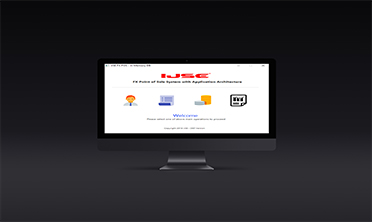
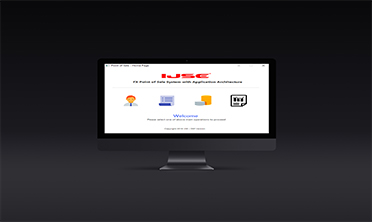
new

diff --git a/assets/js/wow.min.js b/assets/js/wow.min.js
@@ -1,2 +1,1 @@
-/*! WOW - v1.1.2 - 2015-08-19
-* Copyright (c) 2015 Matthieu Aussaguel; Licensed MIT */(function(){var a,b,c,d,e,f=function(a,b){return function(){return a.apply(b,arguments)}},g=[].indexOf||function(a){for(var b=0,c=this.length;c>b;b++)if(b in this&&this[b]===a)return b;return-1};b=function(){function a(){}return a.prototype.extend=function(a,b){var c,d;for(c in b)d=b[c],null==a[c]&&(a[c]=d);return a},a.prototype.isMobile=function(a){return/Android|webOS|iPhone|iPad|iPod|BlackBerry|IEMobile|Opera Mini/i.test(a)},a.prototype.createEvent=function(a,b,c,d){var e;return null==b&&(b=!1),null==c&&(c=!1),null==d&&(d=null),null!=document.createEvent?(e=document.createEvent("CustomEvent"),e.initCustomEvent(a,b,c,d)):null!=document.createEventObject?(e=document.createEventObject(),e.eventType=a):e.eventName=a,e},a.prototype.emitEvent=function(a,b){return null!=a.dispatchEvent?a.dispatchEvent(b):b in(null!=a)?a[b]():"on"+b in(null!=a)?a["on"+b]():void 0},a.prototype.addEvent=function(a,b,c){return null!=a.addEventListener?a.addEventListener(b,c,!1):null!=a.attachEvent?a.attachEvent("on"+b,c):a[b]=c},a.prototype.removeEvent=function(a,b,c){return null!=a.removeEventListener?a.removeEventListener(b,c,!1):null!=a.detachEvent?a.detachEvent("on"+b,c):delete a[b]},a.prototype.innerHeight=function(){return"innerHeight"in window?window.innerHeight:document.documentElement.clientHeight},a}(),c=this.WeakMap||this.MozWeakMap||(c=function(){function a(){this.keys=[],this.values=[]}return a.prototype.get=function(a){var b,c,d,e,f;for(f=this.keys,b=d=0,e=f.length;e>d;b=++d)if(c=f[b],c===a)return this.values[b]},a.prototype.set=function(a,b){var c,d,e,f,g;for(g=this.keys,c=e=0,f=g.length;f>e;c=++e)if(d=g[c],d===a)return void(this.values[c]=b);return this.keys.push(a),this.values.push(b)},a}()),a=this.MutationObserver||this.WebkitMutationObserver||this.MozMutationObserver||(a=function(){function a(){"undefined"!=typeof console&&null!==console&&console.warn("MutationObserver is not supported by your browser."),"undefined"!=typeof console&&null!==console&&console.warn("WOW.js cannot detect dom mutations, please call .sync() after loading new content.")}return a.notSupported=!0,a.prototype.observe=function(){},a}()),d=this.getComputedStyle||function(a){return this.getPropertyValue=function(b){var c;return"float"===b&&(b="styleFloat"),e.test(b)&&b.replace(e,function(a,b){return b.toUpperCase()}),(null!=(c=a.currentStyle)?c[b]:void 0)||null},this},e=/(\-([a-z]){1})/g,this.WOW=function(){function e(a){null==a&&(a={}),this.scrollCallback=f(this.scrollCallback,this),this.scrollHandler=f(this.scrollHandler,this),this.resetAnimation=f(this.resetAnimation,this),this.start=f(this.start,this),this.scrolled=!0,this.config=this.util().extend(a,this.defaults),null!=a.scrollContainer&&(this.config.scrollContainer=document.querySelector(a.scrollContainer)),this.animationNameCache=new c,this.wowEvent=this.util().createEvent(this.config.boxClass)}return e.prototype.defaults={boxClass:"wow",animateClass:"animated",offset:0,mobile:!0,live:!0,callback:null,scrollContainer:null},e.prototype.init=function(){var a;return this.element=window.document.documentElement,"interactive"===(a=document.readyState)||"complete"===a?this.start():this.util().addEvent(document,"DOMContentLoaded",this.start),this.finished=[]},e.prototype.start=function(){var b,c,d,e;if(this.stopped=!1,this.boxes=function(){var a,c,d,e;for(d=this.element.querySelectorAll("."+this.config.boxClass),e=[],a=0,c=d.length;c>a;a++)b=d[a],e.push(b);return e}.call(this),this.all=function(){var a,c,d,e;for(d=this.boxes,e=[],a=0,c=d.length;c>a;a++)b=d[a],e.push(b);return e}.call(this),this.boxes.length)if(this.disabled())this.resetStyle();else for(e=this.boxes,c=0,d=e.length;d>c;c++)b=e[c],this.applyStyle(b,!0);return this.disabled()||(this.util().addEvent(this.config.scrollContainer||window,"scroll",this.scrollHandler),this.util().addEvent(window,"resize",this.scrollHandler),this.interval=setInterval(this.scrollCallback,50)),this.config.live?new a(function(a){return function(b){var c,d,e,f,g;for(g=[],c=0,d=b.length;d>c;c++)f=b[c],g.push(function(){var a,b,c,d;for(c=f.addedNodes||[],d=[],a=0,b=c.length;b>a;a++)e=c[a],d.push(this.doSync(e));return d}.call(a));return g}}(this)).observe(document.body,{childList:!0,subtree:!0}):void 0},e.prototype.stop=function(){return this.stopped=!0,this.util().removeEvent(this.config.scrollContainer||window,"scroll",this.scrollHandler),this.util().removeEvent(window,"resize",this.scrollHandler),null!=this.interval?clearInterval(this.interval):void 0},e.prototype.sync=function(){return a.notSupported?this.doSync(this.element):void 0},e.prototype.doSync=function(a){var b,c,d,e,f;if(null==a&&(a=this.element),1===a.nodeType){for(a=a.parentNode||a,e=a.querySelectorAll("."+this.config.boxClass),f=[],c=0,d=e.length;d>c;c++)b=e[c],g.call(this.all,b)<0?(this.boxes.push(b),this.all.push(b),this.stopped||this.disabled()?this.resetStyle():this.applyStyle(b,!0),f.push(this.scrolled=!0)):f.push(void 0);return f}},e.prototype.show=function(a){return this.applyStyle(a),a.className=a.className+" "+this.config.animateClass,null!=this.config.callback&&this.config.callback(a),this.util().emitEvent(a,this.wowEvent),this.util().addEvent(a,"animationend",this.resetAnimation),this.util().addEvent(a,"oanimationend",this.resetAnimation),this.util().addEvent(a,"webkitAnimationEnd",this.resetAnimation),this.util().addEvent(a,"MSAnimationEnd",this.resetAnimation),a},e.prototype.applyStyle=function(a,b){var c,d,e;return d=a.getAttribute("data-wow-duration"),c=a.getAttribute("data-wow-delay"),e=a.getAttribute("data-wow-iteration"),this.animate(function(f){return function(){return f.customStyle(a,b,d,c,e)}}(this))},e.prototype.animate=function(){return"requestAnimationFrame"in window?function(a){return window.requestAnimationFrame(a)}:function(a){return a()}}(),e.prototype.resetStyle=function(){var a,b,c,d,e;for(d=this.boxes,e=[],b=0,c=d.length;c>b;b++)a=d[b],e.push(a.style.visibility="visible");return e},e.prototype.resetAnimation=function(a){var b;return a.type.toLowerCase().indexOf("animationend")>=0?(b=a.target||a.srcElement,b.className=b.className.replace(this.config.animateClass,"").trim()):void 0},e.prototype.customStyle=function(a,b,c,d,e){return b&&this.cacheAnimationName(a),a.style.visibility=b?"hidden":"visible",c&&this.vendorSet(a.style,{animationDuration:c}),d&&this.vendorSet(a.style,{animationDelay:d}),e&&this.vendorSet(a.style,{animationIterationCount:e}),this.vendorSet(a.style,{animationName:b?"none":this.cachedAnimationName(a)}),a},e.prototype.vendors=["moz","webkit"],e.prototype.vendorSet=function(a,b){var c,d,e,f;d=[];for(c in b)e=b[c],a[""+c]=e,d.push(function(){var b,d,g,h;for(g=this.vendors,h=[],b=0,d=g.length;d>b;b++)f=g[b],h.push(a[""+f+c.charAt(0).toUpperCase()+c.substr(1)]=e);return h}.call(this));return d},e.prototype.vendorCSS=function(a,b){var c,e,f,g,h,i;for(h=d(a),g=h.getPropertyCSSValue(b),f=this.vendors,c=0,e=f.length;e>c;c++)i=f[c],g=g||h.getPropertyCSSValue("-"+i+"-"+b);return g},e.prototype.animationName=function(a){var b;try{b=this.vendorCSS(a,"animation-name").cssText}catch(c){b=d(a).getPropertyValue("animation-name")}return"none"===b?"":b},e.prototype.cacheAnimationName=function(a){return this.animationNameCache.set(a,this.animationName(a))},e.prototype.cachedAnimationName=function(a){return this.animationNameCache.get(a)},e.prototype.scrollHandler=function(){return this.scrolled=!0},e.prototype.scrollCallback=function(){var a;return!this.scrolled||(this.scrolled=!1,this.boxes=function(){var b,c,d,e;for(d=this.boxes,e=[],b=0,c=d.length;c>b;b++)a=d[b],a&&(this.isVisible(a)?this.show(a):e.push(a));return e}.call(this),this.boxes.length||this.config.live)?void 0:this.stop()},e.prototype.offsetTop=function(a){for(var b;void 0===a.offsetTop;)a=a.parentNode;for(b=a.offsetTop;a=a.offsetParent;)b+=a.offsetTop;return b},e.prototype.isVisible=function(a){var b,c,d,e,f;return c=a.getAttribute("data-wow-offset")||this.config.offset,f=this.config.scrollContainer&&this.config.scrollContainer.scrollTop||window.pageYOffset,e=f+Math.min(this.element.clientHeight,this.util().innerHeight())-c,d=this.offsetTop(a),b=d+a.clientHeight,e>=d&&b>=f},e.prototype.util=function(){return null!=this._util?this._util:this._util=new b},e.prototype.disabled=function(){return!this.config.mobile&&this.util().isMobile(navigator.userAgent)},e}()}).call(this);
+(function(){var a,b,c,d,e,f=function(a,b){return function(){return a.apply(b,arguments)}},g=[].indexOf||function(a){for(var b=0,c=this.length;c>b;b++)if(b in this&&this[b]===a)return b;return-1};b=function(){function a(){}return a.prototype.extend=function(a,b){var c,d;for(c in b)d=b[c],null==a[c]&&(a[c]=d);return a},a.prototype.isMobile=function(a){return/Android|webOS|iPhone|iPad|iPod|BlackBerry|IEMobile|Opera Mini/i.test(a)},a.prototype.createEvent=function(a,b,c,d){var e;return null==b&&(b=!1),null==c&&(c=!1),null==d&&(d=null),null!=document.createEvent?(e=document.createEvent("CustomEvent"),e.initCustomEvent(a,b,c,d)):null!=document.createEventObject?(e=document.createEventObject(),e.eventType=a):e.eventName=a,e},a.prototype.emitEvent=function(a,b){return null!=a.dispatchEvent?a.dispatchEvent(b):b in(null!=a)?a[b]():"on"+b in(null!=a)?a["on"+b]():void 0},a.prototype.addEvent=function(a,b,c){return null!=a.addEventListener?a.addEventListener(b,c,!1):null!=a.attachEvent?a.attachEvent("on"+b,c):a[b]=c},a.prototype.removeEvent=function(a,b,c){return null!=a.removeEventListener?a.removeEventListener(b,c,!1):null!=a.detachEvent?a.detachEvent("on"+b,c):delete a[b]},a.prototype.innerHeight=function(){return"innerHeight"in window?window.innerHeight:document.documentElement.clientHeight},a}(),c=this.WeakMap||this.MozWeakMap||(c=function(){function a(){this.keys=[],this.values=[]}return a.prototype.get=function(a){var b,c,d,e,f;for(f=this.keys,b=d=0,e=f.length;e>d;b=++d)if(c=f[b],c===a)return this.values[b]},a.prototype.set=function(a,b){var c,d,e,f,g;for(g=this.keys,c=e=0,f=g.length;f>e;c=++e)if(d=g[c],d===a)return void(this.values[c]=b);return this.keys.push(a),this.values.push(b)},a}()),a=this.MutationObserver||this.WebkitMutationObserver||this.MozMutationObserver||(a=function(){function a(){"undefined"!=typeof console&&null!==console&&console.warn("MutationObserver is not supported by your browser."),"undefined"!=typeof console&&null!==console&&console.warn("WOW.js cannot detect dom mutations, please call .sync() after loading new content.")}return a.notSupported=!0,a.prototype.observe=function(){},a}()),d=this.getComputedStyle||function(a){return this.getPropertyValue=function(b){var c;return"float"===b&&(b="styleFloat"),e.test(b)&&b.replace(e,function(a,b){return b.toUpperCase()}),(null!=(c=a.currentStyle)?c[b]:void 0)||null},this},e=/(\-([a-z]){1})/g,this.WOW=function(){function e(a){null==a&&(a={}),this.scrollCallback=f(this.scrollCallback,this),this.scrollHandler=f(this.scrollHandler,this),this.resetAnimation=f(this.resetAnimation,this),this.start=f(this.start,this),this.scrolled=!0,this.config=this.util().extend(a,this.defaults),null!=a.scrollContainer&&(this.config.scrollContainer=document.querySelector(a.scrollContainer)),this.animationNameCache=new c,this.wowEvent=this.util().createEvent(this.config.boxClass)}return e.prototype.defaults={boxClass:"wow",animateClass:"animated",offset:0,mobile:!0,live:!0,callback:null,scrollContainer:null},e.prototype.init=function(){var a;return this.element=window.document.documentElement,"interactive"===(a=document.readyState)||"complete"===a?this.start():this.util().addEvent(document,"DOMContentLoaded",this.start),this.finished=[]},e.prototype.start=function(){var b,c,d,e;if(this.stopped=!1,this.boxes=function(){var a,c,d,e;for(d=this.element.querySelectorAll("."+this.config.boxClass),e=[],a=0,c=d.length;c>a;a++)b=d[a],e.push(b);return e}.call(this),this.all=function(){var a,c,d,e;for(d=this.boxes,e=[],a=0,c=d.length;c>a;a++)b=d[a],e.push(b);return e}.call(this),this.boxes.length)if(this.disabled())this.resetStyle();else for(e=this.boxes,c=0,d=e.length;d>c;c++)b=e[c],this.applyStyle(b,!0);return this.disabled()||(this.util().addEvent(this.config.scrollContainer||window,"scroll",this.scrollHandler),this.util().addEvent(window,"resize",this.scrollHandler),this.interval=setInterval(this.scrollCallback,50)),this.config.live?new a(function(a){return function(b){var c,d,e,f,g;for(g=[],c=0,d=b.length;d>c;c++)f=b[c],g.push(function(){var a,b,c,d;for(c=f.addedNodes||[],d=[],a=0,b=c.length;b>a;a++)e=c[a],d.push(this.doSync(e));return d}.call(a));return g}}(this)).observe(document.body,{childList:!0,subtree:!0}):void 0},e.prototype.stop=function(){return this.stopped=!0,this.util().removeEvent(this.config.scrollContainer||window,"scroll",this.scrollHandler),this.util().removeEvent(window,"resize",this.scrollHandler),null!=this.interval?clearInterval(this.interval):void 0},e.prototype.sync=function(){return a.notSupported?this.doSync(this.element):void 0},e.prototype.doSync=function(a){var b,c,d,e,f;if(null==a&&(a=this.element),1===a.nodeType){for(a=a.parentNode||a,e=a.querySelectorAll("."+this.config.boxClass),f=[],c=0,d=e.length;d>c;c++)b=e[c],g.call(this.all,b)<0?(this.boxes.push(b),this.all.push(b),this.stopped||this.disabled()?this.resetStyle():this.applyStyle(b,!0),f.push(this.scrolled=!0)):f.push(void 0);return f}},e.prototype.show=function(a){return this.applyStyle(a),a.className=a.className+" "+this.config.animateClass,null!=this.config.callback&&this.config.callback(a),this.util().emitEvent(a,this.wowEvent),this.util().addEvent(a,"animationend",this.resetAnimation),this.util().addEvent(a,"oanimationend",this.resetAnimation),this.util().addEvent(a,"webkitAnimationEnd",this.resetAnimation),this.util().addEvent(a,"MSAnimationEnd",this.resetAnimation),a},e.prototype.applyStyle=function(a,b){var c,d,e;return d=a.getAttribute("data-wow-duration"),c=a.getAttribute("data-wow-delay"),e=a.getAttribute("data-wow-iteration"),this.animate(function(f){return function(){return f.customStyle(a,b,d,c,e)}}(this))},e.prototype.animate=function(){return"requestAnimationFrame"in window?function(a){return window.requestAnimationFrame(a)}:function(a){return a()}}(),e.prototype.resetStyle=function(){var a,b,c,d,e;for(d=this.boxes,e=[],b=0,c=d.length;c>b;b++)a=d[b],e.push(a.style.visibility="visible");return e},e.prototype.resetAnimation=function(a){var b;return a.type.toLowerCase().indexOf("animationend")>=0?(b=a.target||a.srcElement,b.className=b.className.replace(this.config.animateClass,"").trim()):void 0},e.prototype.customStyle=function(a,b,c,d,e){return b&&this.cacheAnimationName(a),a.style.visibility=b?"hidden":"visible",c&&this.vendorSet(a.style,{animationDuration:c}),d&&this.vendorSet(a.style,{animationDelay:d}),e&&this.vendorSet(a.style,{animationIterationCount:e}),this.vendorSet(a.style,{animationName:b?"none":this.cachedAnimationName(a)}),a},e.prototype.vendors=["moz","webkit"],e.prototype.vendorSet=function(a,b){var c,d,e,f;d=[];for(c in b)e=b[c],a[""+c]=e,d.push(function(){var b,d,g,h;for(g=this.vendors,h=[],b=0,d=g.length;d>b;b++)f=g[b],h.push(a[""+f+c.charAt(0).toUpperCase()+c.substr(1)]=e);return h}.call(this));return d},e.prototype.vendorCSS=function(a,b){var c,e,f,g,h,i;for(h=d(a),g=h.getPropertyCSSValue(b),f=this.vendors,c=0,e=f.length;e>c;c++)i=f[c],g=g||h.getPropertyCSSValue("-"+i+"-"+b);return g},e.prototype.animationName=function(a){var b;try{b=this.vendorCSS(a,"animation-name").cssText}catch(c){b=d(a).getPropertyValue("animation-name")}return"none"===b?"":b},e.prototype.cacheAnimationName=function(a){return this.animationNameCache.set(a,this.animationName(a))},e.prototype.cachedAnimationName=function(a){return this.animationNameCache.get(a)},e.prototype.scrollHandler=function(){return this.scrolled=!0},e.prototype.scrollCallback=function(){var a;return!this.scrolled||(this.scrolled=!1,this.boxes=function(){var b,c,d,e;for(d=this.boxes,e=[],b=0,c=d.length;c>b;b++)a=d[b],a&&(this.isVisible(a)?this.show(a):e.push(a));return e}.call(this),this.boxes.length||this.config.live)?void 0:this.stop()},e.prototype.offsetTop=function(a){for(var b;void 0===a.offsetTop;)a=a.parentNode;for(b=a.offsetTop;a=a.offsetParent;)b+=a.offsetTop;return b},e.prototype.isVisible=function(a){var b,c,d,e,f;return c=a.getAttribute("data-wow-offset")||this.config.offset,f=this.config.scrollContainer&&this.config.scrollContainer.scrollTop||window.pageYOffset,e=f+Math.min(this.element.clientHeight,this.util().innerHeight())-c,d=this.offsetTop(a),b=d+a.clientHeight,e>=d&&b>=f},e.prototype.util=function(){return null!=this._util?this._util:this._util=new b},e.prototype.disabled=function(){return!this.config.mobile&&this.util().isMobile(navigator.userAgent)},e}()}).call(this);

diff --git a/assets/js/parallax.min.js b/assets/js/parallax.min.js
@@ -1,6 +1,2 @@
-/*!
- * parallax.js v1.4.2 (http://pixelcog.github.io/parallax.js/)
- * @copyright 2016 PixelCog, Inc.
- * @license MIT (https://github.com/pixelcog/parallax.js/blob/master/LICENSE)
- */
+
 !function(t,i,e,s){function o(i,e){var h=this;"object"==typeof e&&(delete e.refresh,delete e.render,t.extend(this,e)),this.$element=t(i),!this.imageSrc&&this.$element.is("img")&&(this.imageSrc=this.$element.attr("src"));var r=(this.position+"").toLowerCase().match(/\S+/g)||[];if(r.length<1&&r.push("center"),1==r.length&&r.push(r[0]),("top"==r[0]||"bottom"==r[0]||"left"==r[1]||"right"==r[1])&&(r=[r[1],r[0]]),this.positionX!=s&&(r[0]=this.positionX.toLowerCase()),this.positionY!=s&&(r[1]=this.positionY.toLowerCase()),h.positionX=r[0],h.positionY=r[1],"left"!=this.positionX&&"right"!=this.positionX&&(this.positionX=isNaN(parseInt(this.positionX))?"center":parseInt(this.positionX)),"top"!=this.positionY&&"bottom"!=this.positionY&&(this.positionY=isNaN(parseInt(this.positionY))?"center":parseInt(this.positionY)),this.position=this.positionX+(isNaN(this.positionX)?"":"px")+" "+this.positionY+(isNaN(this.positionY)?"":"px"),navigator.userAgent.match(/(iPod|iPhone|iPad)/))return this.imageSrc&&this.iosFix&&!this.$element.is("img")&&this.$element.css({backgroundImage:"url("+this.imageSrc+")",backgroundSize:"cover",backgroundPosition:this.position}),this;if(navigator.userAgent.match(/(Android)/))return this.imageSrc&&this.androidFix&&!this.$element.is("img")&&this.$element.css({backgroundImage:"url("+this.imageSrc+")",backgroundSize:"cover",backgroundPosition:this.position}),this;this.$mirror=t("<div />").prependTo("body");var a=this.$element.find(">.parallax-slider"),n=!1;0==a.length?this.$slider=t("<img />").prependTo(this.$mirror):(this.$slider=a.prependTo(this.$mirror),n=!0),this.$mirror.addClass("parallax-mirror").css({visibility:"hidden",zIndex:this.zIndex,position:"fixed",top:0,left:0,overflow:"hidden"}),this.$slider.addClass("parallax-slider").one("load",function(){h.naturalHeight&&h.naturalWidth||(h.naturalHeight=this.naturalHeight||this.height||1,h.naturalWidth=this.naturalWidth||this.width||1),h.aspectRatio=h.naturalWidth/h.naturalHeight,o.isSetup||o.setup(),o.sliders.push(h),o.isFresh=!1,o.requestRender()}),n||(this.$slider[0].src=this.imageSrc),(this.naturalHeight&&this.naturalWidth||this.$slider[0].complete||a.length>0)&&this.$slider.trigger("load")}function h(s){return this.each(function(){var h=t(this),r="object"==typeof s&&s;this==i||this==e||h.is("body")?o.configure(r):h.data("px.parallax")?"object"==typeof s&&t.extend(h.data("px.parallax"),r):(r=t.extend({},h.data(),r),h.data("px.parallax",new o(this,r))),"string"==typeof s&&("destroy"==s?o.destroy(this):o[s]())})}!function(){for(var t=0,e=["ms","moz","webkit","o"],s=0;s<e.length&&!i.requestAnimationFrame;++s)i.requestAnimationFrame=i[e[s]+"RequestAnimationFrame"],i.cancelAnimationFrame=i[e[s]+"CancelAnimationFrame"]||i[e[s]+"CancelRequestAnimationFrame"];i.requestAnimationFrame||(i.requestAnimationFrame=function(e){var s=(new Date).getTime(),o=Math.max(0,16-(s-t)),h=i.setTimeout(function(){e(s+o)},o);return t=s+o,h}),i.cancelAnimationFrame||(i.cancelAnimationFrame=function(t){clearTimeout(t)})}(),t.extend(o.prototype,{speed:.2,bleed:0,zIndex:-100,iosFix:!0,androidFix:!0,position:"center",overScrollFix:!1,refresh:function(){this.boxWidth=this.$element.outerWidth(),this.boxHeight=this.$element.outerHeight()+2*this.bleed,this.boxOffsetTop=this.$element.offset().top-this.bleed,this.boxOffsetLeft=this.$element.offset().left,this.boxOffsetBottom=this.boxOffsetTop+this.boxHeight;var t=o.winHeight,i=o.docHeight,e=Math.min(this.boxOffsetTop,i-t),s=Math.max(this.boxOffsetTop+this.boxHeight-t,0),h=this.boxHeight+(e-s)*(1-this.speed)|0,r=(this.boxOffsetTop-e)*(1-this.speed)|0;if(h*this.aspectRatio>=this.boxWidth){this.imageWidth=h*this.aspectRatio|0,this.imageHeight=h,this.offsetBaseTop=r;var a=this.imageWidth-this.boxWidth;this.offsetLeft="left"==this.positionX?0:"right"==this.positionX?-a:isNaN(this.positionX)?-a/2|0:Math.max(this.positionX,-a)}else{this.imageWidth=this.boxWidth,this.imageHeight=this.boxWidth/this.aspectRatio|0,this.offsetLeft=0;var a=this.imageHeight-h;this.offsetBaseTop="top"==this.positionY?r:"bottom"==this.positionY?r-a:isNaN(this.positionY)?r-a/2|0:r+Math.max(this.positionY,-a)}},render:function(){var t=o.scrollTop,i=o.scrollLeft,e=this.overScrollFix?o.overScroll:0,s=t+o.winHeight;this.boxOffsetBottom>t&&this.boxOffsetTop<=s?(this.visibility="visible",this.mirrorTop=this.boxOffsetTop-t,this.mirrorLeft=this.boxOffsetLeft-i,this.offsetTop=this.offsetBaseTop-this.mirrorTop*(1-this.speed)):this.visibility="hidden",this.$mirror.css({transform:"translate3d(0px, 0px, 0px)",visibility:this.visibility,top:this.mirrorTop-e,left:this.mirrorLeft,height:this.boxHeight,width:this.boxWidth}),this.$slider.css({transform:"translate3d(0px, 0px, 0px)",position:"absolute",top:this.offsetTop,left:this.offsetLeft,height:this.imageHeight,width:this.imageWidth,maxWidth:"none"})}}),t.extend(o,{scrollTop:0,scrollLeft:0,winHeight:0,winWidth:0,docHeight:1<<30,docWidth:1<<30,sliders:[],isReady:!1,isFresh:!1,isBusy:!1,setup:function(){if(!this.isReady){var s=t(e),h=t(i),r=function(){o.winHeight=h.height(),o.winWidth=h.width(),o.docHeight=s.height(),o.docWidth=s.width()},a=function(){var t=h.scrollTop(),i=o.docHeight-o.winHeight,e=o.docWidth-o.winWidth;o.scrollTop=Math.max(0,Math.min(i,t)),o.scrollLeft=Math.max(0,Math.min(e,h.scrollLeft())),o.overScroll=Math.max(t-i,Math.min(t,0))};h.on("resize.px.parallax load.px.parallax",function(){r(),o.isFresh=!1,o.requestRender()}).on("scroll.px.parallax load.px.parallax",function(){a(),o.requestRender()}),r(),a(),this.isReady=!0}},configure:function(i){"object"==typeof i&&(delete i.refresh,delete i.render,t.extend(this.prototype,i))},refresh:function(){t.each(this.sliders,function(){this.refresh()}),this.isFresh=!0},render:function(){this.isFresh||this.refresh(),t.each(this.sliders,function(){this.render()})},requestRender:function(){var t=this;this.isBusy||(this.isBusy=!0,i.requestAnimationFrame(function(){t.render(),t.isBusy=!1}))},destroy:function(e){var s,h=t(e).data("px.parallax");for(h.$mirror.remove(),s=0;s<this.sliders.length;s+=1)this.sliders[s]==h&&this.sliders.splice(s,1);t(e).data("px.parallax",!1),0===this.sliders.length&&(t(i).off("scroll.px.parallax resize.px.parallax load.px.parallax"),this.isReady=!1,o.isSetup=!1)}});var r=t.fn.parallax;t.fn.parallax=h,t.fn.parallax.Constructor=o,t.fn.parallax.noConflict=function(){return t.fn.parallax=r,this},t(e).on("ready.px.parallax.data-api",function(){t('[data-parallax="scroll"]').parallax()})}(jQuery,window,document);

diff --git a/assets/js/validator.min.js b/assets/js/validator.min.js
@@ -1,9 +1,3 @@
-/*!
- * Validator v0.8.1 for Bootstrap 3, by @1000hz
- * Copyright 2015 Cina Saffary
- * Licensed under http://opensource.org/licenses/MIT
- *
- * https://github.com/1000hz/bootstrap-validator
- */
+
 
 +function(a){"use strict";function b(b){return this.each(function(){var c=a(this),e=a.extend({},d.DEFAULTS,c.data(),"object"==typeof b&&b),f=c.data("bs.validator");(f||"destroy"!=b)&&(f||c.data("bs.validator",f=new d(this,e)),"string"==typeof b&&f[b]())})}var c=':input:not([type="submit"], button):enabled:visible',d=function(b,c){this.$element=a(b),this.options=c,c.errors=a.extend({},d.DEFAULTS.errors,c.errors);for(var e in c.custom)if(!c.errors[e])throw new Error("Missing default error message for custom validator: "+e);a.extend(d.VALIDATORS,c.custom),this.$element.attr("novalidate",!0),this.toggleSubmit(),this.$element.on("input.bs.validator change.bs.validator focusout.bs.validator",a.proxy(this.validateInput,this)),this.$element.on("submit.bs.validator",a.proxy(this.onSubmit,this)),this.$element.find("[data-match]").each(function(){var b=a(this),c=b.data("match");a(c).on("input.bs.validator",function(){b.val()&&b.trigger("input.bs.validator")})})};d.DEFAULTS={delay:500,html:!1,disable:!0,custom:{},errors:{match:"Does not match",minlength:"Not long enough"},feedback:{success:"glyphicon-ok",error:"glyphicon-warning-sign"}},d.VALIDATORS={"native":function(a){var b=a[0];return b.checkValidity?b.checkValidity():!0},match:function(b){var c=b.data("match");return!b.val()||b.val()===a(c).val()},minlength:function(a){var b=a.data("minlength");return!a.val()||a.val().length>=b}},d.prototype.validateInput=function(b){var c=a(b.target),d=c.data("bs.validator.errors");if(c.is('[type="radio"]')&&(c=this.$element.find('input[name="'+c.attr("name")+'"]')),this.$element.trigger(b=a.Event("validate.bs.validator",{relatedTarget:c[0]})),!b.isDefaultPrevented()){var e=this;this.runValidators(c).done(function(f){c.data("bs.validator.errors",f),f.length?e.showErrors(c):e.clearErrors(c),d&&f.toString()===d.toString()||(b=f.length?a.Event("invalid.bs.validator",{relatedTarget:c[0],detail:f}):a.Event("valid.bs.validator",{relatedTarget:c[0],detail:d}),e.$element.trigger(b)),e.toggleSubmit(),e.$element.trigger(a.Event("validated.bs.validator",{relatedTarget:c[0]}))})}},d.prototype.runValidators=function(b){function c(a){return b.data(a+"-error")||b.data("error")||"native"==a&&b[0].validationMessage||g.errors[a]}var e=[],f=a.Deferred(),g=this.options;return b.data("bs.validator.deferred")&&b.data("bs.validator.deferred").reject(),b.data("bs.validator.deferred",f),a.each(d.VALIDATORS,a.proxy(function(a,d){if((b.data(a)||"native"==a)&&!d.call(this,b)){var f=c(a);!~e.indexOf(f)&&e.push(f)}},this)),!e.length&&b.val()&&b.data("remote")?this.defer(b,function(){var d={};d[b.attr("name")]=b.val(),a.get(b.data("remote"),d).fail(function(a,b,d){e.push(c("remote")||d)}).always(function(){f.resolve(e)})}):f.resolve(e),f.promise()},d.prototype.validate=function(){var a=this.options.delay;return this.options.delay=0,this.$element.find(c).trigger("input.bs.validator"),this.options.delay=a,this},d.prototype.showErrors=function(b){var c=this.options.html?"html":"text";this.defer(b,function(){var d=b.closest(".form-group"),e=d.find(".help-block.with-errors"),f=d.find(".form-control-feedback"),g=b.data("bs.validator.errors");g.length&&(g=a("<ul/>").addClass("list-unstyled").append(a.map(g,function(b){return a("<li/>")[c](b)})),void 0===e.data("bs.validator.originalContent")&&e.data("bs.validator.originalContent",e.html()),e.empty().append(g),d.addClass("has-error"),f.length&&f.removeClass(this.options.feedback.success)&&f.addClass(this.options.feedback.error)&&d.removeClass("has-success"))})},d.prototype.clearErrors=function(a){var b=a.closest(".form-group"),c=b.find(".help-block.with-errors"),d=b.find(".form-control-feedback");c.html(c.data("bs.validator.originalContent")),b.removeClass("has-error"),d.length&&d.removeClass(this.options.feedback.error)&&d.addClass(this.options.feedback.success)&&b.addClass("has-success")},d.prototype.hasErrors=function(){function b(){return!!(a(this).data("bs.validator.errors")||[]).length}return!!this.$element.find(c).filter(b).length},d.prototype.isIncomplete=function(){function b(){return"checkbox"===this.type?!this.checked:"radio"===this.type?!a('[name="'+this.name+'"]:checked').length:""===a.trim(this.value)}return!!this.$element.find(c).filter("[required]").filter(b).length},d.prototype.onSubmit=function(a){this.validate(),(this.isIncomplete()||this.hasErrors())&&a.preventDefault()},d.prototype.toggleSubmit=function(){if(this.options.disable){var b=a('button[type="submit"], input[type="submit"]').filter('[form="'+this.$element.attr("id")+'"]').add(this.$element.find('input[type="submit"], button[type="submit"]'));b.toggleClass("disabled",this.isIncomplete()||this.hasErrors()).css({"pointer-events":"all",cursor:"pointer"})}},d.prototype.defer=function(b,c){return c=a.proxy(c,this),this.options.delay?(window.clearTimeout(b.data("bs.validator.timeout")),void b.data("bs.validator.timeout",window.setTimeout(c,this.options.delay))):c()},d.prototype.destroy=function(){return this.$element.removeAttr("novalidate").removeData("bs.validator").off(".bs.validator"),this.$element.find(c).off(".bs.validator").removeData(["bs.validator.errors","bs.validator.deferred"]).each(function(){var b=a(this),c=b.data("bs.validator.timeout");window.clearTimeout(c)&&b.removeData("bs.validator.timeout")}),this.$element.find(".help-block.with-errors").each(function(){var b=a(this),c=b.data("bs.validator.originalContent");b.removeData("bs.validator.originalContent").html(c)}),this.$element.find('input[type="submit"], button[type="submit"]').removeClass("disabled"),this.$element.find(".has-error").removeClass("has-error"),this};var e=a.fn.validator;a.fn.validator=b,a.fn.validator.Constructor=d,a.fn.validator.noConflict=function(){return a.fn.validator=e,this},a(window).on("load",function(){a('form[data-toggle="validator"]').each(function(){var c=a(this);b.call(c,c.data())})})}(jQuery);

diff --git a/index.html b/index.html
@@ -254,8 +254,14 @@
         <div id="image-modal1" class="modal-box mfp-hide">
           <img src="assets/images/folio/work-big-1.jpg" alt="">
           <div class="modal-box-content">
-            <h4>Project title</h4>
-            <p>Ut enim ad minim veniam, quis nostrud exercitation ullamco laboris nisi ut aliquip ex ea commodo consequat. Duis aute irure dolor in reprehenderit in voluptate velit esse cillum dolore eu fugiat.</p>
+            <h4>Point of Sale</h4>
+            <p>This is a project a done according to the using Javafx which facilitates the customer to place the orders. This also provides the ability of adding new customers and to enter new items to the system.</p>
+            <p>Technology Stack 💥
+
+              JavaFX ,
+              JDBC ,
+              Scene Builder ,
+              Jasper Reports</p>
           </div>
         </div>  
       </div>
